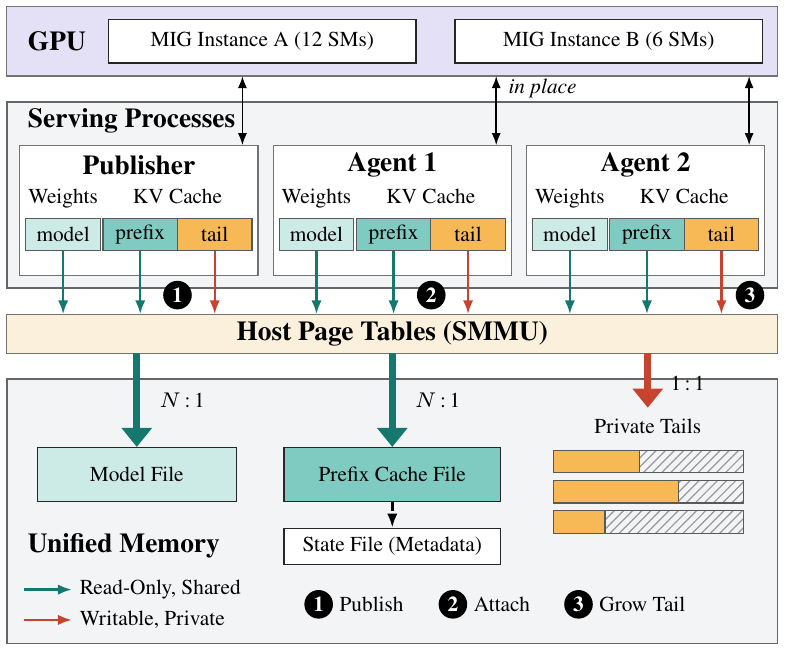
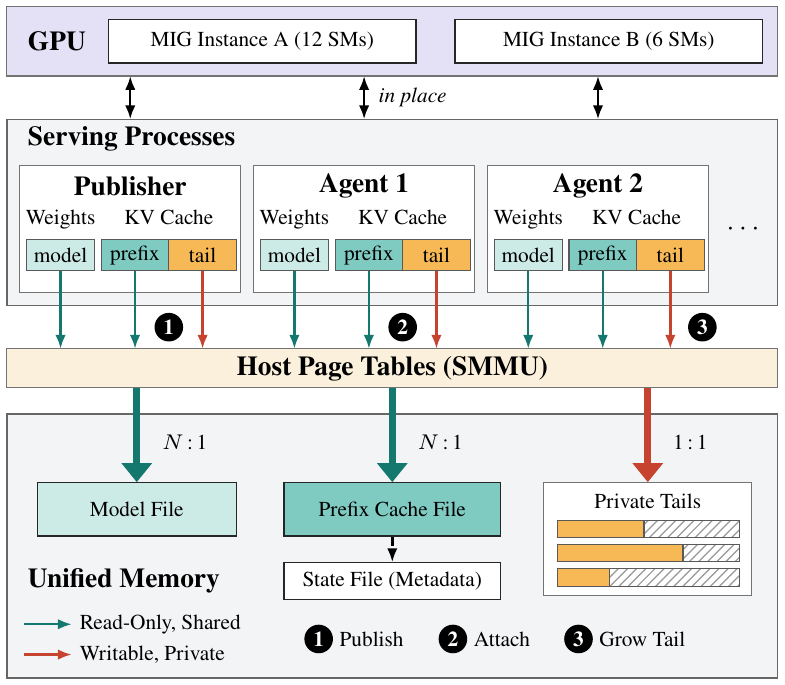
Fix the architecture and the publish-and-attach figures
Architecture: an ellipsis after Agent 2, one weight for every single arrow
and one for every group arrow, the GPU arrows in the gap between the panels,
the private tails as a box, and the "1 : 1" label inside the memory panel.
Publish and attach: a taller publisher lane, so that the Move box no longer
touches its lower edge.

diff --git a/figures/src/overall_architecture.tex b/figures/src/overall_architecture.tex
@@ -6,32 +6,36 @@
 \input{llmshare_style}
 \begin{document}
 \begin{tikzpicture}[x=1cm, y=1cm]
+% One arrow for every single mapping, one for every group of mappings.
+\tikzset{both/.style={{Latex[length=1.6mm]}-{Latex[length=1.6mm]}, line width=0.8pt}}
 
 % ---------------- GPU ----------------
-\draw[sub, fill=gpuc] (0,6.55) rectangle (8.9,7.35);
-\node[ttl, anchor=west] at (0.12,6.95) {GPU};
-\node[comp, minimum width=3.55cm, minimum height=0.5cm] (miga) at (2.95,6.95) {MIG Instance A (12 SMs)};
-\node[comp, minimum width=3.55cm, minimum height=0.5cm] (migb) at (6.95,6.95) {MIG Instance B (6 SMs)};
+\draw[sub, fill=gpuc] (0,6.95) rectangle (8.9,7.75);
+\node[ttl, anchor=west] at (0.12,7.35) {GPU};
+\node[comp, minimum width=3.55cm, minimum height=0.5cm] (miga) at (2.95,7.35) {MIG Instance A (12 SMs)};
+\node[comp, minimum width=3.55cm, minimum height=0.5cm] (migb) at (6.95,7.35) {MIG Instance B (6 SMs)};
 
 % ---------------- serving processes ----------------
-\draw[layer] (0,4.1) rectangle (8.9,6.25);
-\node[ttl, anchor=west] at (0.12,6.03) {Serving Processes};
+\draw[layer] (0,4.3) rectangle (8.9,6.45);
+\node[ttl, anchor=west] at (0.12,6.22) {Serving Processes};
 \newcommand{\process}[3]{% x of the left edge, node prefix, name
-  \draw[sub, fill=white] (#1,4.25) rectangle (#1+2.75,5.75);
-  \node[ttl] at (#1+1.375,5.52) {#3};
-  \node[tag, anchor=base] at (#1+0.5,5.08) {Weights};
-  \node[tag, anchor=base] at (#1+1.82,5.08) {KV Cache};
-  \node[blk, fill=modelc, minimum width=0.86cm] (#2m) at (#1+0.5,4.72) {model};
-  \node[blk, fill=sharedc, minimum width=0.86cm] (#2p) at (#1+1.39,4.72) {prefix};
-  \node[blk, fill=tailc, minimum width=0.86cm] (#2t) at (#1+2.25,4.72) {tail};
+  \draw[sub, fill=white] (#1,4.45) rectangle (#1+2.55,5.92);
+  \node[ttl] at (#1+1.275,5.68) {#3};
+  \node[tag, anchor=base] at (#1+0.47,5.23) {Weights};
+  \node[tag, anchor=base] at (#1+1.72,5.23) {KV Cache};
+  \node[blk, fill=modelc, minimum width=0.78cm] (#2m) at (#1+0.47,4.88) {model};
+  \node[blk, fill=sharedc, minimum width=0.78cm] (#2p) at (#1+1.33,4.88) {prefix};
+  \node[blk, fill=tailc, minimum width=0.78cm] (#2t) at (#1+2.11,4.88) {tail};
 }
 \process{0.15}{pub}{Publisher}
-\process{3.075}{one}{Agent 1}
-\process{6.0}{two}{Agent 2}
-\foreach \x in {2.72,5.65,8.57} {
-  \draw[{Latex[length=1.4mm]}-{Latex[length=1.4mm]}, line width=0.6pt] (\x,5.75) -- (\x,6.55);
+\process{2.85}{one}{Agent 1}
+\process{5.55}{two}{Agent 2}
+\node[ttl] at (8.5,5.18) {$\cdots$};
+% the GPU reads and writes the memory of every process in place
+\foreach \x in {1.425,4.125,6.825} {
+  \draw[both] (\x,6.45) -- (\x,6.95);
 }
-\node[note, anchor=west] at (5.75,6.4) {in place};
+\node[note, anchor=west] at (4.25,6.7) {in place};
 
 % ---------------- host page tables ----------------
 \draw[sub, fill=ptc] (0,3.35) rectangle (8.9,3.8);
@@ -39,11 +43,11 @@
 \foreach \p in {pub,one,two} {
   \draw[arr, roline] (\p m.south) -- (\p m.south |- 0,3.8);
   \draw[arr, roline] (\p p.south) -- (\p p.south |- 0,3.8);
-  \draw[arr, rwline]  (\p t.south) -- (\p t.south |- 0,3.8);
+  \draw[arr, rwline] (\p t.south) -- (\p t.south |- 0,3.8);
 }
-\node[num] at (1.97,4.02) {1};
-\node[num] at (4.9,4.02) {2};
-\node[num] at (8.58,4.02) {3};
+\node[num] at (1.87,4.05) {1};
+\node[num] at (4.57,4.05) {2};
+\node[num] at (8.03,4.05) {3};
 
 % ---------------- unified memory ----------------
 \draw[layer] (0,0) rectangle (8.9,3.05);
@@ -52,17 +56,19 @@
 \node[comp, fill=sharedc, minimum width=2.5cm, minimum height=0.62cm] (pfile) at (4.45,1.95) {Prefix Cache File};
 \node[comp, minimum width=2.5cm, minimum height=0.42cm] (sfile) at (4.45,1.12) {State File (Metadata)};
 \draw[arr, densely dashed] (pfile.south) -- (sfile.north);
-\node[tag] at (7.4,2.5) {Private Tails};
-\foreach \y/\u in {2.1/1.0,1.75/1.45,1.4/0.6} {
-  \node[seg, fill=tailc, minimum width=\u cm, minimum height=0.26cm, anchor=west] at (6.3,\y) {};
-  \node[free, minimum width=2.2cm-\u cm, minimum height=0.26cm, anchor=west] at (6.3+\u,\y) {};
+% the private tails: one per process, backed up to the rows in use
+\draw[sub, fill=white] (6.2,0.95) rectangle (8.6,2.26);
+\node[tag] at (7.4,2.04) {Private Tails};
+\foreach \y/\u in {1.72/1.0,1.44/1.45,1.16/0.6} {
+  \node[seg, fill=tailc, minimum width=\u cm, minimum height=0.2cm, anchor=west] at (6.35,\y) {};
+  \node[free, minimum width=2.1cm-\u cm, minimum height=0.2cm, anchor=west] at (6.35+\u,\y) {};
 }
-\draw[fat, roline] (1.5,3.35) -- (mfile.north);
-\draw[fat, roline] (4.45,3.35) -- (pfile.north);
-\draw[fat, rwline]  (7.4,3.35) -- (7.4,2.72);
-\node[tag, anchor=west] at (1.72,2.8) {$N$\,:\,1};
-\node[tag, anchor=west] at (4.67,2.8) {$N$\,:\,1};
-\node[tag, anchor=west] at (7.62,3.0) {1\,:\,1};
+\draw[fat, roline] (1.5,3.35) -- (1.5,2.26);
+\draw[fat, roline] (4.45,3.35) -- (4.45,2.26);
+\draw[fat, rwline] (7.4,3.35) -- (7.4,2.26);
+\node[tag, anchor=west] at (1.75,2.72) {$N$\,:\,1};
+\node[tag, anchor=west] at (4.7,2.72) {$N$\,:\,1};
+\node[tag, anchor=west] at (7.65,2.72) {1\,:\,1};
 
 % ---------------- legend ----------------
 \draw[arr, roline] (0.2,0.62) -- (0.75,0.62);

diff --git a/figures/src/design_lifecycle.tex b/figures/src/design_lifecycle.tex
@@ -8,32 +8,32 @@
 \begin{tikzpicture}[x=1cm, y=1cm]
 
 % lanes
-\draw[layer] (0,3.4) rectangle (8.9,4.65);
+\draw[layer] (0,3.3) rectangle (8.9,4.8);
 \draw[sub, fill=white] (0,1.65) rectangle (8.9,2.75);
 \draw[layer] (0,0) rectangle (8.9,1.05);
-\node[ttl, anchor=west] at (0.1,4.42) {Publisher};
+\node[ttl, anchor=west] at (0.1,4.57) {Publisher};
 \node[ttl, anchor=west] at (0.1,2.52) {Files};
 \node[ttl, anchor=west] at (0.1,0.82) {Agent};
 
 % publisher
-\node[comp, minimum width=2.0cm] (compute) at (1.5,3.85) {Compute Prefix};
-\node[comp, fill=actc, minimum width=1.4cm] (publish) at (4.2,3.85) {Publish};
-\node[comp, minimum width=2.0cm] (forkgen) at (7.4,4.15) {Fork: Generate};
-\node[comp, minimum width=2.0cm, densely dashed] (moveexit) at (7.4,3.65) {Move: Exit};
+\node[comp, minimum width=2.0cm] (compute) at (1.5,3.95) {Compute Prefix};
+\node[comp, fill=actc, minimum width=1.4cm] (publish) at (4.2,3.95) {Publish};
+\node[comp, minimum width=2.0cm] (forkgen) at (7.4,4.28) {Fork: Generate};
+\node[comp, minimum width=2.0cm, densely dashed] (moveexit) at (7.4,3.7) {Move: Exit};
 \draw[arr] (compute) -- (publish);
 \draw[arr] (publish.east) -- ++(0.6,0) |- (forkgen.west);
 \draw[arr] (publish.east) -- ++(0.6,0) |- (moveexit.west);
-\node[num] at (3.55,4.27) {1};
+\node[num] at (3.55,4.37) {1};
 
 % files
 \node[comp, fill=sharedc, minimum width=2.9cm] (cache) at (2.4,2.1) {Prefix Cache File};
 \node[comp, minimum width=2.3cm] (state) at (6.0,2.1) {State File};
-\draw[arr] (1.5,3.575) -- (1.5,2.375);
-\node[note, anchor=west] at (1.58,3.07) {rows};
-\draw[arr] (3.6,3.575) -- (3.6,2.375);
-\node[note, anchor=east] at (3.52,3.07) {mprotect};
-\draw[arr] (4.6,3.575) -- (4.6,3.07) -| (state.north);
-\node[note, anchor=west] at (6.08,3.07) {metadata};
+\draw[arr] (1.5,3.7) -- (1.5,2.375);
+\node[note, anchor=west] at (1.58,3.03) {rows};
+\draw[arr] (3.6,3.7) -- (3.6,2.375);
+\node[note, anchor=east] at (3.52,3.03) {mprotect};
+\draw[arr] (4.6,3.7) -- (4.6,3.03) -| (state.north);
+\node[note, anchor=west] at (6.08,3.03) {metadata};
 
 % agent
 \node[comp, minimum width=1.2cm] (start) at (1.5,0.42) {Spawn};
